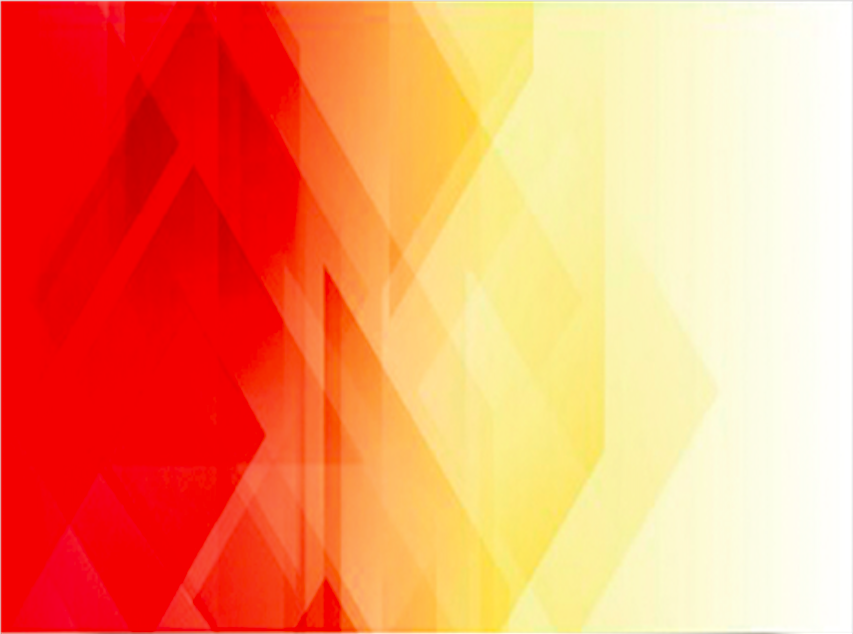
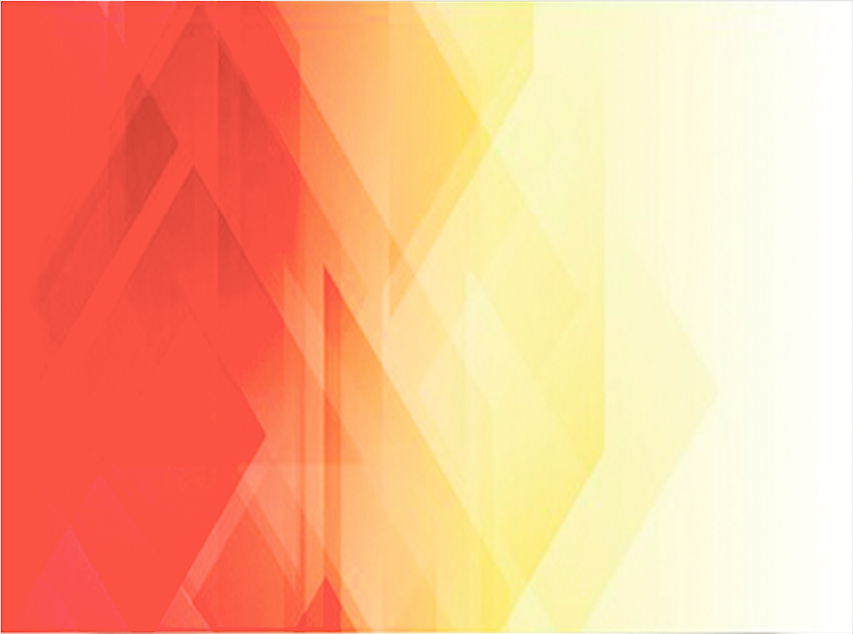
actualizacion de interfaz

diff --git a/public/stylesheets/3m.css b/public/stylesheets/3m.css
@@ -107,10 +107,12 @@
     background-image: url("/img/fondo.png");
     background-size: cover;
     background-repeat: no-repeat;
-    background-color: #EDDDD4;
 }
 .subfondo1 {
-    background-image: url("/img/subfondo2.png");
+    background-image: url("/img/subfondo2.jpeg");
     background-size: cover;
     background-repeat: no-repeat;
+}
+.subfondo2 {
+    background-image: url("/img/fondo.png");
 }
